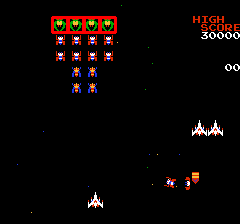
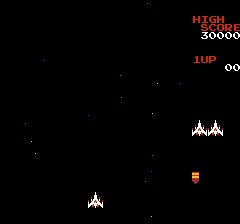
Makes enemy map image for frame

diff --git a/src/imagetest.py b/src/imagetest.py
@@ -1,0 +1,18 @@
+import os
+import cv2 as cv
+import numpy as np
+from matplotlib import pyplot as plt
+def find_enemy(obs,i):
+    img_rgb = cv.cvtColor(obs, cv.COLOR_BGR2RGB)
+    img_gray = cv.cvtColor(img_rgb, cv.COLOR_BGR2GRAY)
+    res = []
+    for filename in os.listdir('Template images'):
+        template = cv.imread(f'Template images/{filename}', cv.IMREAD_GRAYSCALE)
+        w, h = template.shape[::-1]
+        res = cv.matchTemplate(img_gray,template,cv.TM_CCOEFF_NORMED)
+        threshold = 0.6
+        loc = np.where( res >= threshold)
+        for pt in zip(*loc[::-1]):
+            print(pt)
+            cv.rectangle(img_rgb, pt, (pt[0] + w, pt[1] + h), (0,0,255), 2)
+    cv.imwrite(f'res{i}.png',img_rgb)

diff --git a/src/run_galaga.py b/src/run_galaga.py
@@ -1,12 +1,14 @@
 import gymnasium as gym
 import retro
+import imagetest
 env = retro.make(game="GalagaDemonsOfDeath-Nes")
 
 obs = env.reset()
-while True:
+for i in range(200):
     action = env.action_space.sample()
     print(action)
     obs, rewards, done, info = env.step(action)
+    imagetest.find_enemy(obs, i)
     env.render()
 
     if done:
